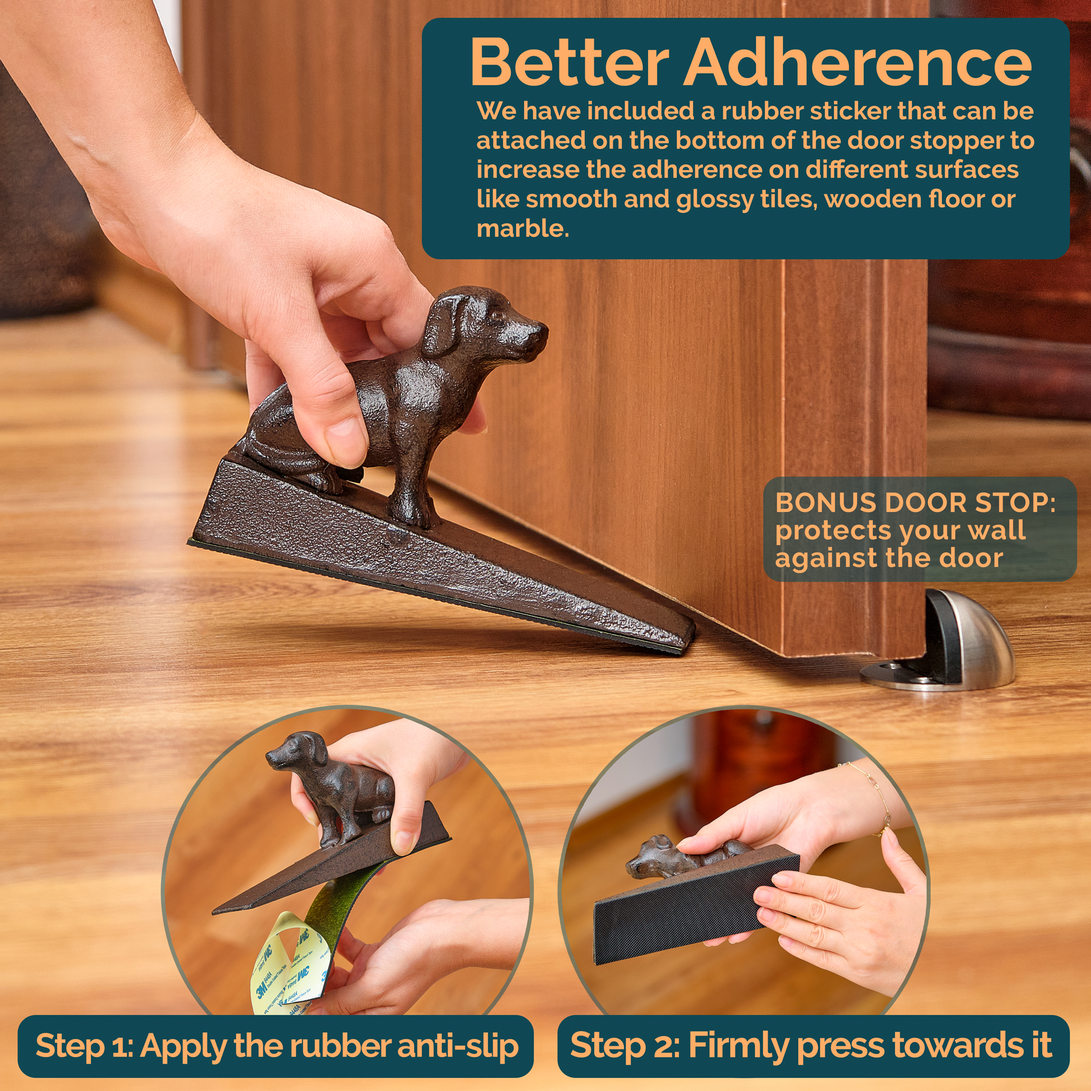
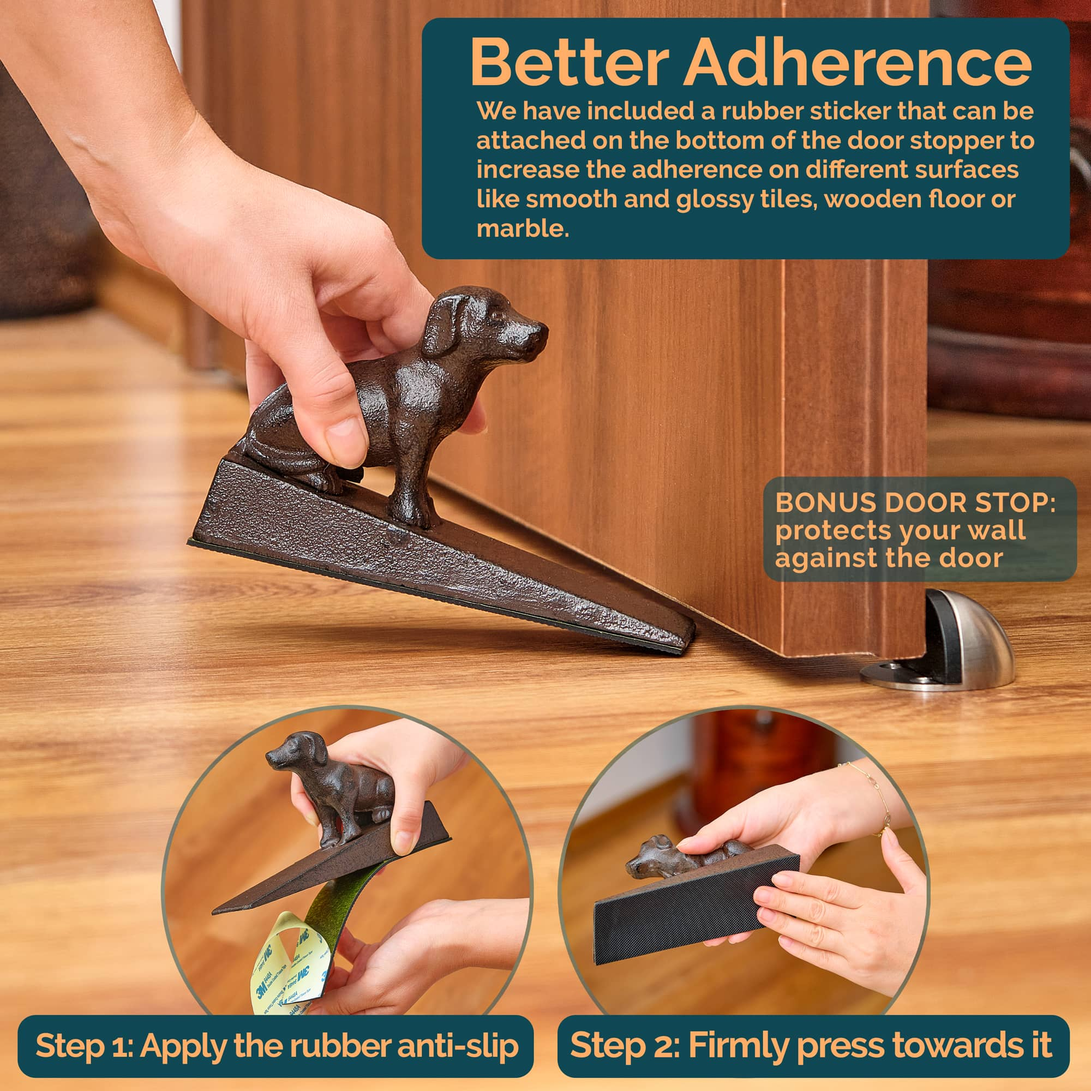
optimized images

diff --git a/src/components/Button.js b/src/components/Button.js
@@ -1,6 +1,6 @@
 import React from 'react'
 import './Button.css'
-import { Link } from 'react-router-dom'
+
 
 const STYLES = ['btn--primary','btn--outline']
 const SIZES = ['btn--medium', 'btn--large']
@@ -20,7 +20,7 @@ export const Button = ({
      : SIZES[0]
 
     return (
-        <Link to='/' className='btn-mobile'>
+        
             <button
             className={`btn ${checkButtonStyle} ${checkButtonSize}`}
             onClick={onClick}
@@ -30,7 +30,7 @@ export const Button = ({
             </button>
 
             
-        </Link>
+        
 
 
     )

diff --git a/src/components/HeroSection.css b/src/components/HeroSection.css
@@ -1,5 +1,5 @@
 .hero-container{
-    background: URL('../images/homepage.jpeg') center center/cover no-repeat;
+    background: URL('../images/homepage.jpg') center center/cover no-repeat;
     height: 100vh;
     width: 100%;
     display: flex;
